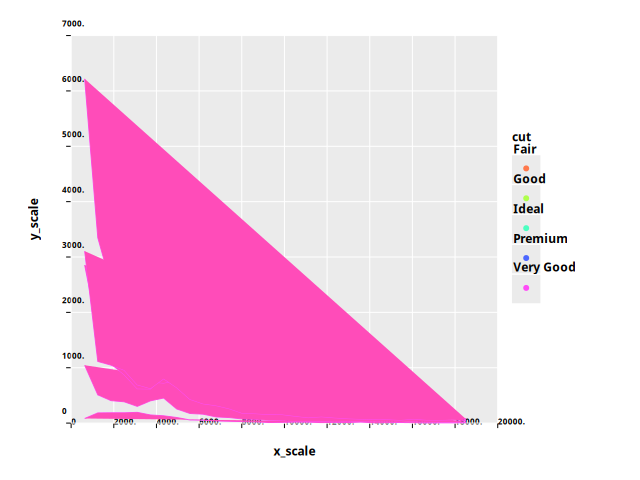
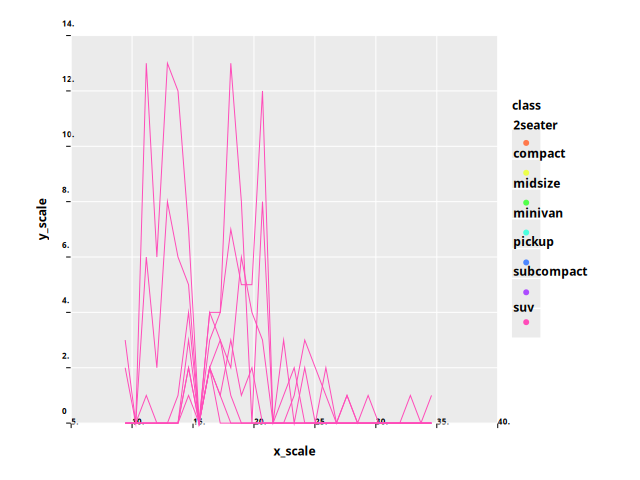
fix freq poly test

diff --git a/tests/test_plots.py b/tests/test_plots.py
@@ -72,11 +72,10 @@ def test_geom_bar_y():
     ggdraw_plot(res, plots_path / "geom_bar_y.png")
 
 
-@pytest.mark.xfail(reason="wrong plot")
 def test_geom_freq_poly():
     mpg = pd.read_csv(data_path / "mpg.csv")
     plot = (
-        ggplot(mpg, aes(x="cty", fill="class")) + geom_freqpoly() + scale_x_continuous()
+        ggplot(mpg, aes(x="cty", color="class")) + geom_freqpoly() + scale_x_continuous()
     )
     res = ggcreate(plot)
     ggdraw_plot(res, plots_path / "geom_freqpoly.png")
